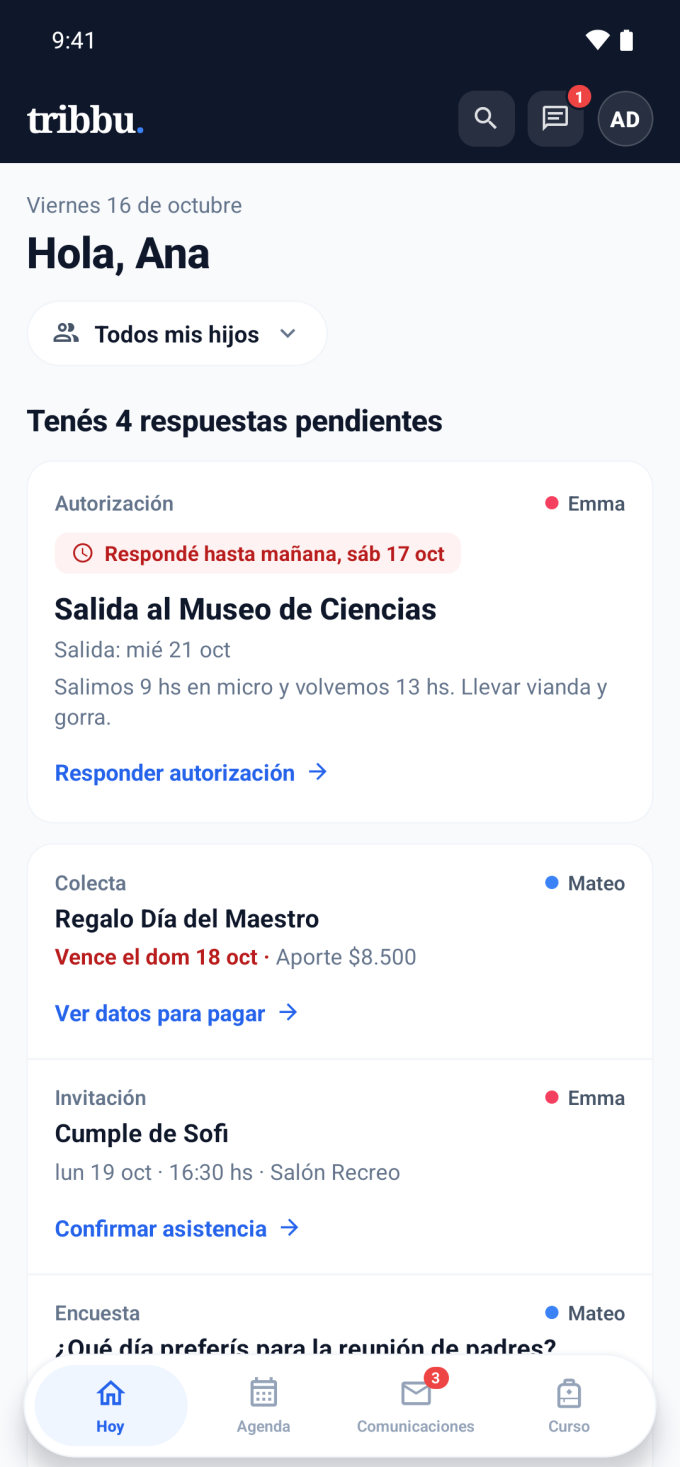
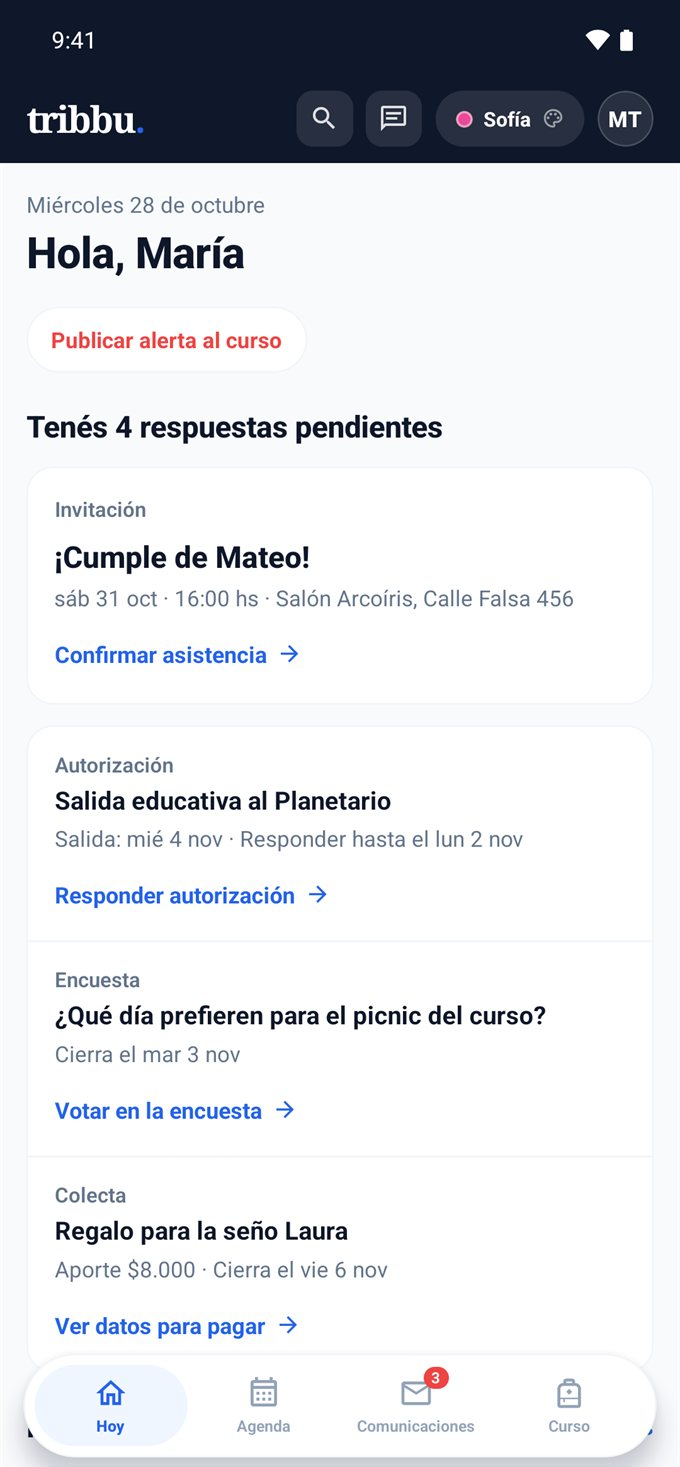
Landing: capturas nuevas de Hoy y Agenda (app, con la cuenta demo)
Sacadas en el emulador con el diseño actual (Hoy con las respuestas
pendientes, Agenda → Próximos), 680×1467 como las anteriores. Textos
alternativos al día. PENDIENTES: resultado de la prueba en el emulador.

diff --git a/public/apoderados.html b/public/apoderados.html
@@ -473,7 +473,7 @@
     </div>
     <div class="heroPhone">
       <div class="phoneFrame">
-        <img class="shotPhone" src="/apoderados-media/app-hoy.jpg" width="680" height="1467" alt="Pantalla Hoy de tribbu: saludo, selector Todos mis hijos y las respuestas pendientes (una autorización que vence mañana, una colecta y una invitación)">
+        <img class="shotPhone" src="/apoderados-media/app-hoy.jpg" width="680" height="1467" alt="Pantalla Hoy de tribbu: saludo y las respuestas pendientes (una invitación a un cumpleaños, una autorización, una encuesta y una colecta)">
       </div>
     </div>
   </div>
@@ -560,7 +560,7 @@
         <div class="bulletRow"><span class="ico">✓</span><span class="txt">Notificaciones separadas por curso</span></div>
       </div>
     </div>
-    <div class="mhPhone"><img class="shotFull" src="/apoderados-media/app-agenda.jpg" width="680" height="1467" loading="lazy" alt="Agenda de tribbu en Todos mis hijos: los próximos eventos de Emma y Mateo, cada uno con su color"></div>
+    <div class="mhPhone"><img class="shotFull" src="/apoderados-media/app-agenda.jpg" width="680" height="1467" loading="lazy" alt="Agenda de tribbu: los próximos eventos del curso (reunión de padres, un cumpleaños y una salida educativa)"></div>
   </div>
 </section>
 

diff --git a/PENDIENTES.md b/PENDIENTES.md
@@ -89,7 +89,10 @@ web y app juntas, mostrar capturas antes de commitear.
       www.tribbu.ar (verificado 2026-10-23).
 - [x] ~~**App 1.14.0**~~: promovida el 2026-10-26 (Play producción vc51;
       Apple la aprobó el 2026-10-27). 1.13.1 se salteó.
-- [ ] **Crash en Android después del login** (visto en vc51 / 1.14.0, en el
+- [ ] **Crash en Android después del login** (2026-10-28: con un APK de
+      prueba del código actual, en el emulador `tribbu_test` de esta máquina,
+      el login del colegio entró bien y no se cerró — 1 de 1; sin la hoja de
+      "Guardar contraseña". Seguir mirando Android vitals.) (visto en vc51 / 1.14.0, en el
       emulador, 2026-10-27): `RetryableMountingLayerException: Unable to find
       viewState for tag 22` en Fabric (`SurfaceMountingManager.addViewAt`), al
       pasar del login a Hoy mientras aparece la hoja "Save password to Google
